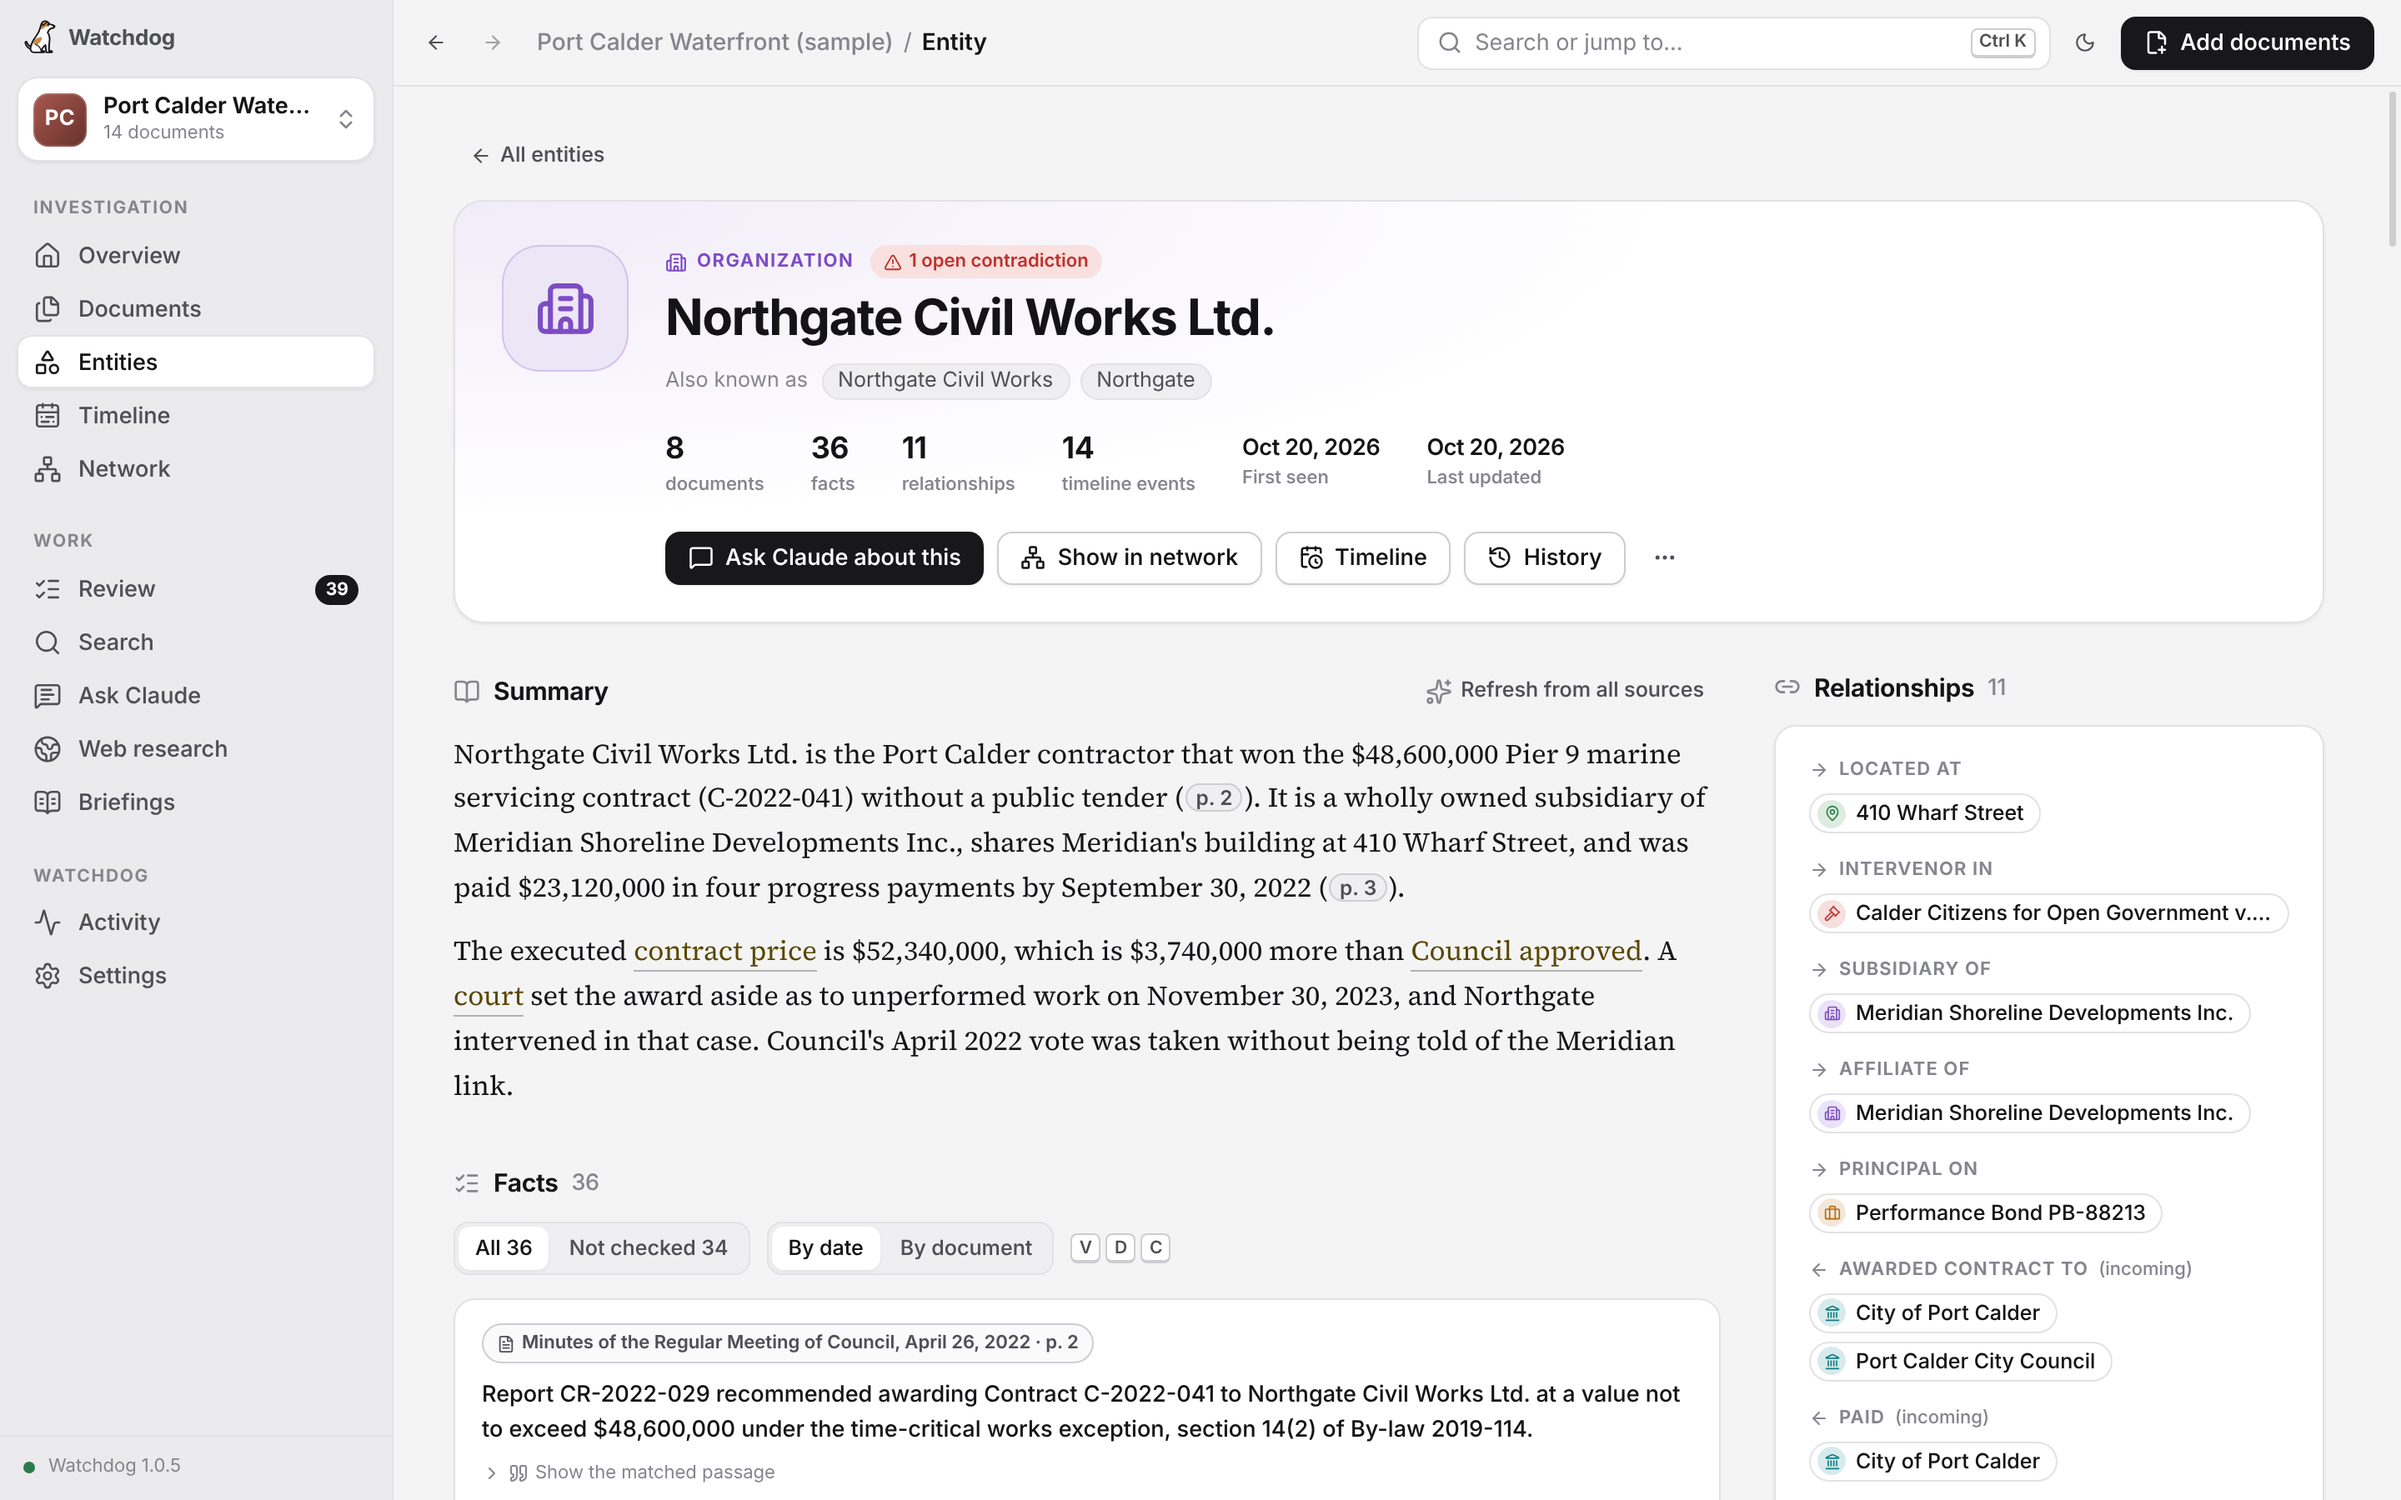
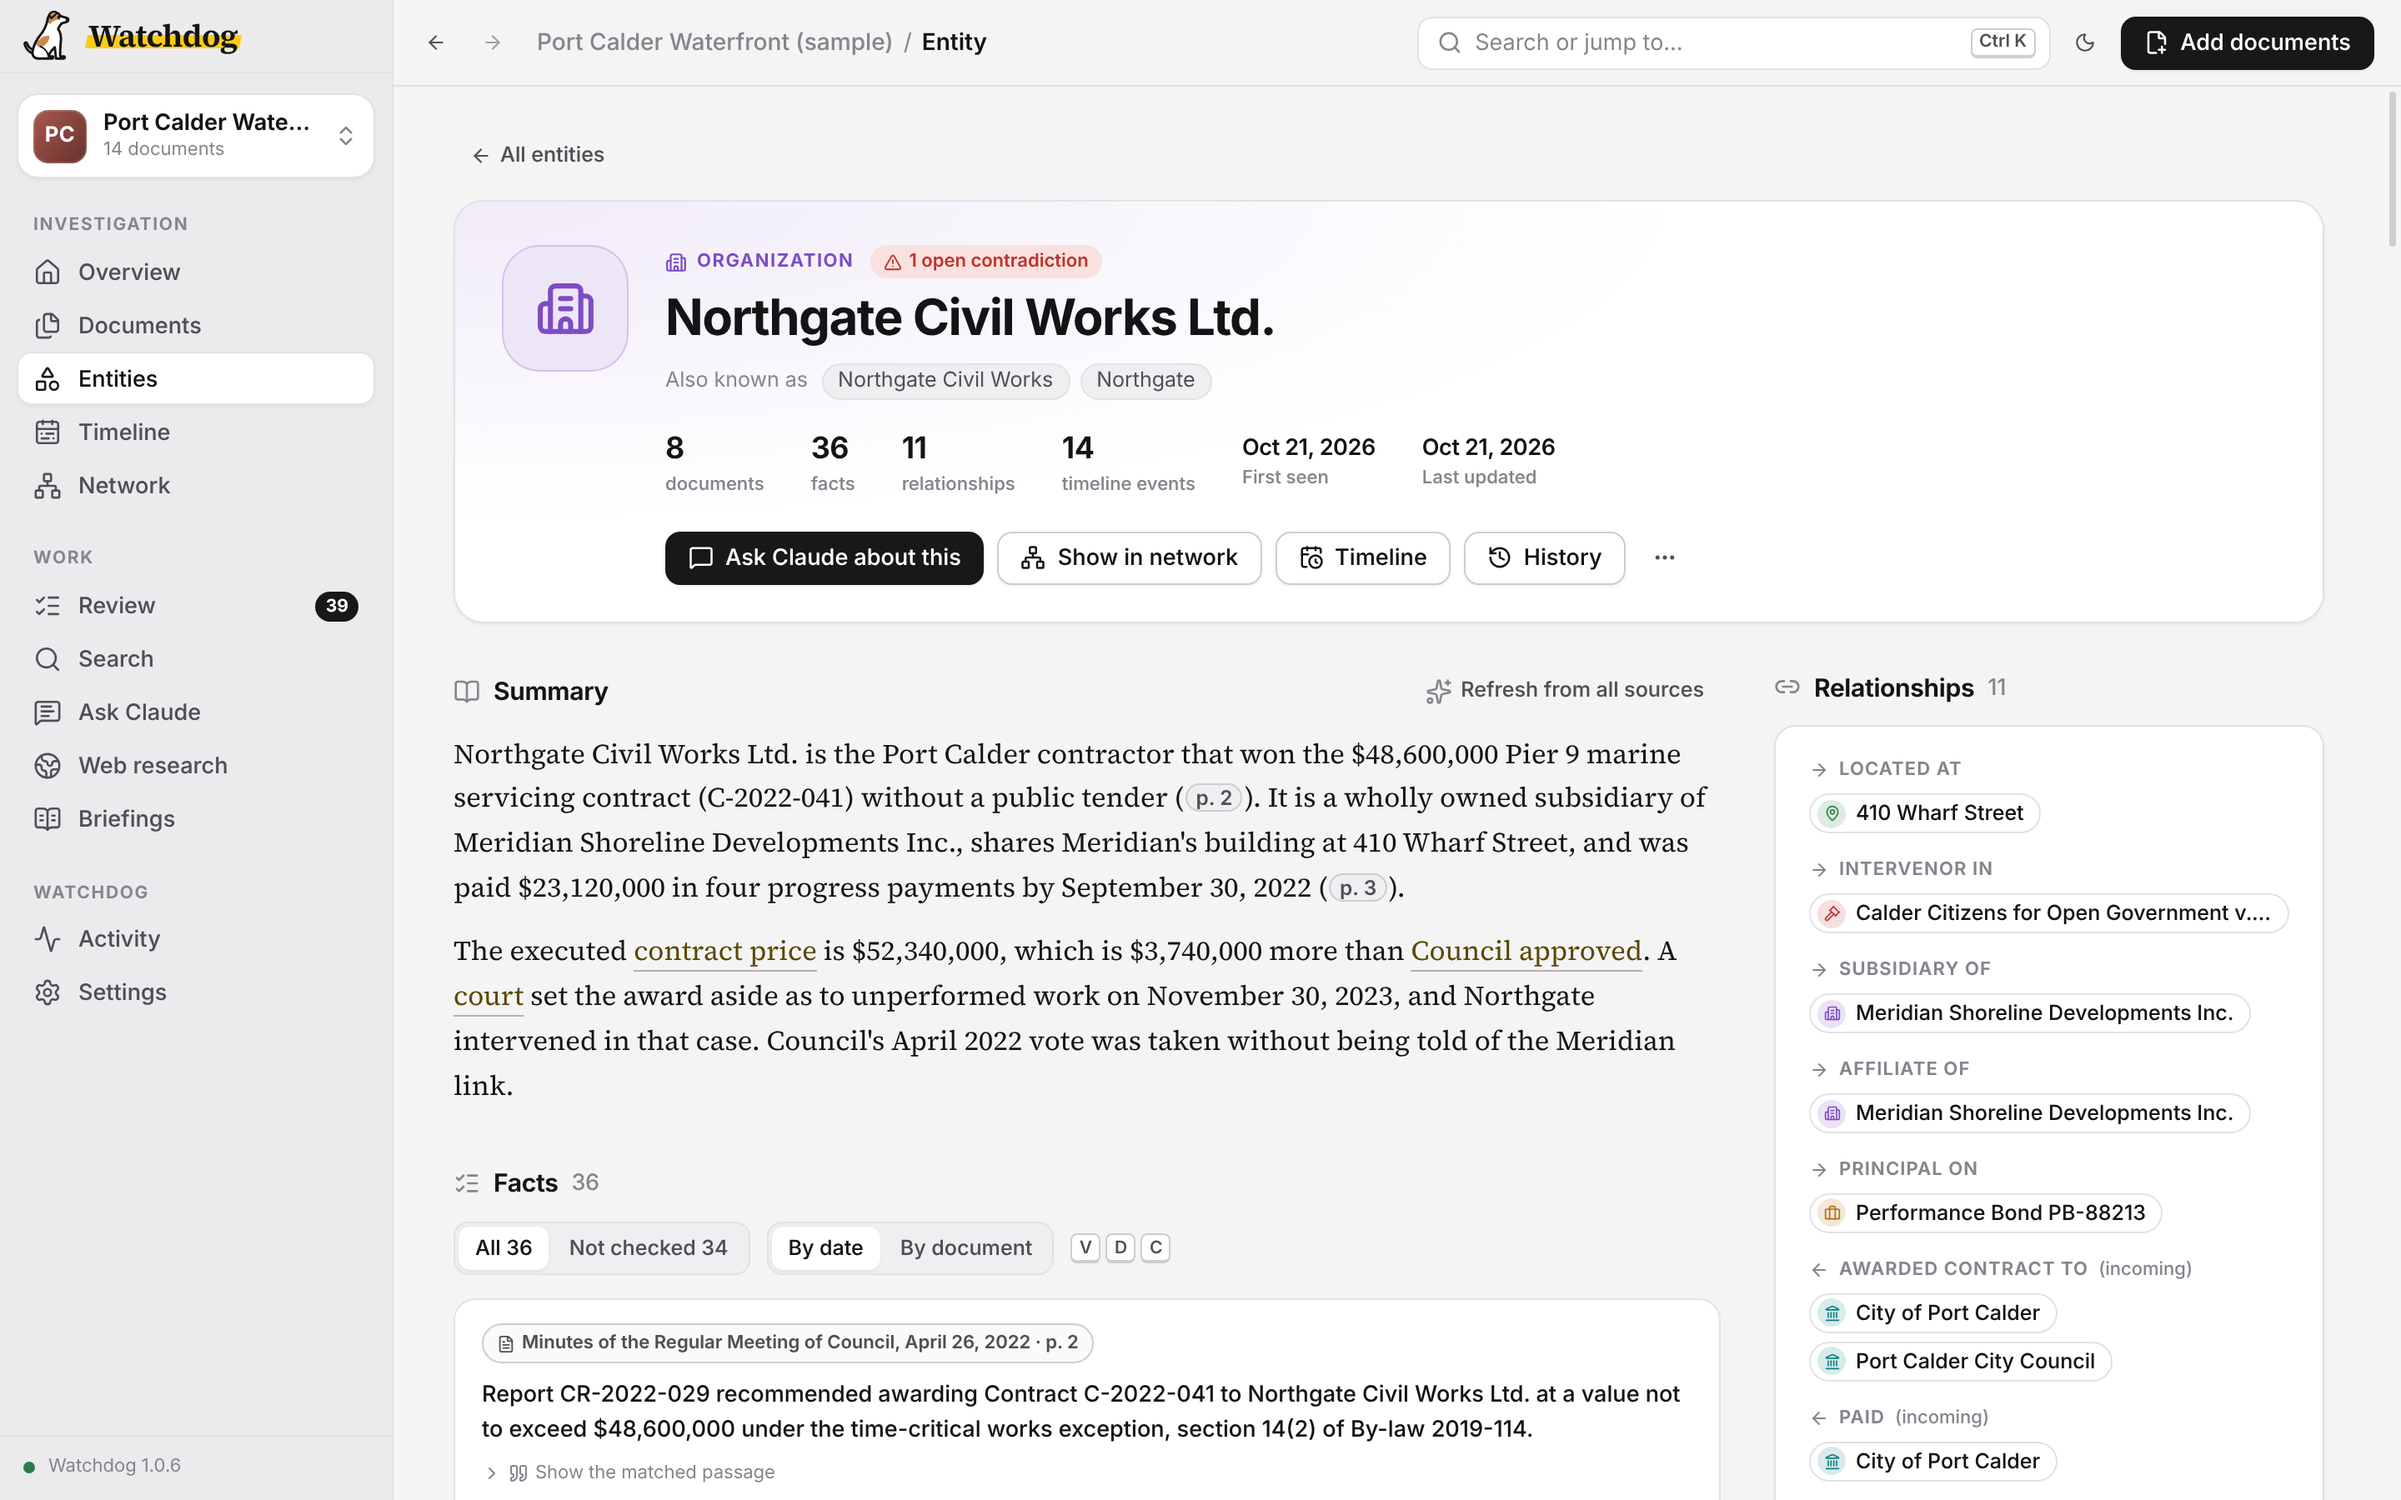
Docs: retake the app screenshots with the new sidebar wordmark
Also nudges the dog up less (2px, not 5px), so that in the 44px bar of the Windows and Linux
layout it no longer touches the top edge.

diff --git a/gui/src/renderer/src/styles/shell.css b/gui/src/renderer/src/styles/shell.css
@@ -40,7 +40,7 @@
 .sidebar-brand svg {
   width: 28px;
   height: 30px;
-  margin-top: -5px;
+  margin-top: -2px;
 }
 .sidebar-brand-text {
   font-family: var(--font-read);
